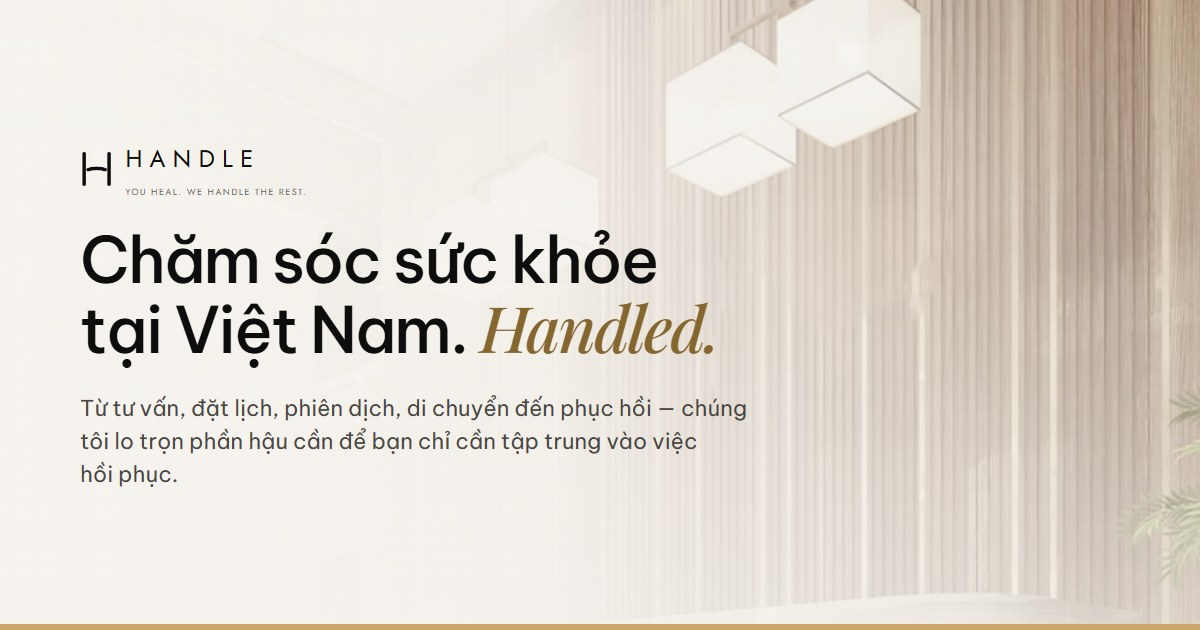
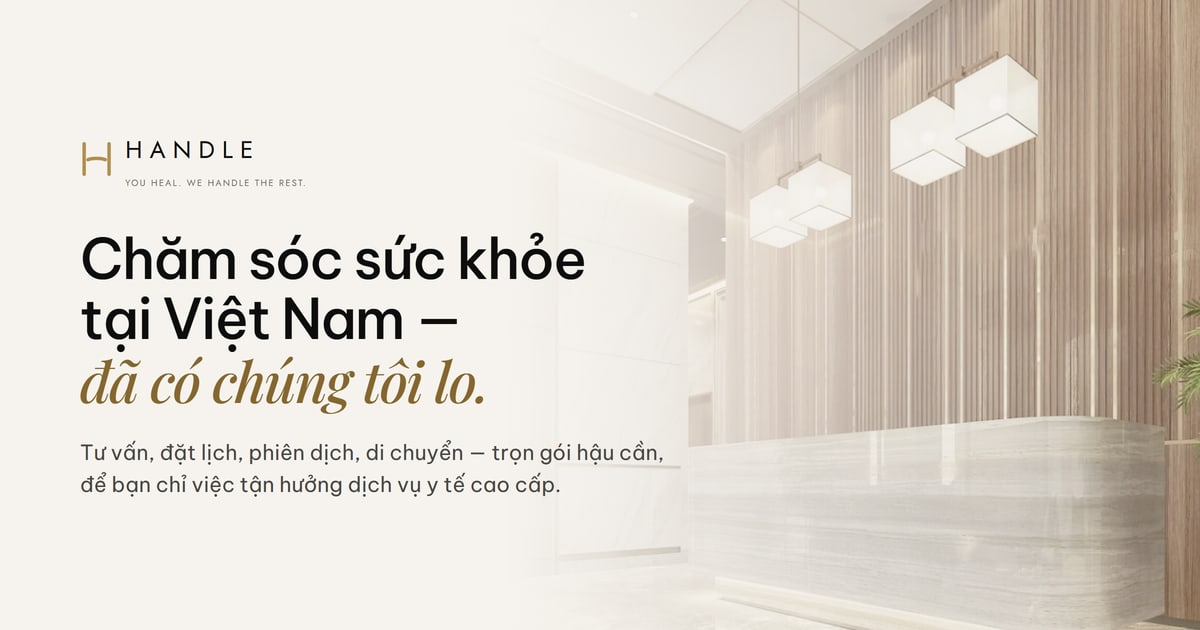
copy(hero): the new Vietnamese tagline, and the three places it reached
Chăm sóc sức khỏe tại Việt Nam — đã có chúng tôi lo.

    Tư vấn, đặt lịch, phiên dịch, di chuyển — trọn gói hậu cần, để bạn chỉ
    việc tận hưởng dịch vụ y tế cao cấp.

The em dash closes line two rather than opening the accent. A display serif set
in italic that begins on punctuation reads as a fragment; the dash at the line
end is what signals the turn into the gold phrase, and the accent keeps its own
line exactly as "Handled." did.

Changing a headline that had been one word in the accent field and a complete
clause in the lead field pulled on three things that quietly depended on the
old shape:

**The WebPage `name` in the graph** was `titleLead` alone. Harmless while the
accent was a separable word, and the moment the headline became one sentence
split across two fields it published a name ending in a dangling em dash. It is
the whole h1 now, accent included.

**`og:image:alt`** still described the old tagline.

**`public/og.jpg` still carried the old headline and the old lead**, which
matters more than the two above: it is the entire content of the link preview,
so every share would have shown a card contradicting the page it opened.
Regenerated by the documented method — a throwaway route rendering the card from
the running site, screenshotted at 1200×630 — so the wordmark, Be Vietnam Pro
and Playfair italic are the faces the site ships rather than a rasteriser's
substitutes for Vietnamese glyphs. The route is deleted again in this commit;
[…]

diff --git a/content/vi.ts b/content/vi.ts
@@ -33,9 +33,12 @@ export const vi: SiteContent = {
   },
 
   hero: {
-    titleLead: "Chăm sóc sức khỏe\ntại Việt Nam.",
-    titleAccent: "Handled.",
-    lead: "Từ tư vấn, đặt lịch, phiên dịch, di chuyển đến phục hồi — chúng tôi lo trọn phần hậu cần để bạn chỉ cần tập trung vào việc hồi phục.",
+    /* The em dash closes line two rather than opening the accent: a display
+       serif set in italic starting on punctuation reads as a fragment, and the
+       dash at the line end is what signals the turn into the gold phrase. */
+    titleLead: "Chăm sóc sức khỏe\ntại Việt Nam —",
+    titleAccent: "đã có chúng tôi lo.",
+    lead: "Tư vấn, đặt lịch, phiên dịch, di chuyển — trọn gói hậu cần, để bạn chỉ việc tận hưởng dịch vụ y tế cao cấp.",
     primaryCta: "Tư vấn miễn phí",
     secondaryCta: "Xem video giới thiệu",
     badges: [

diff --git a/lib/json-ld.ts b/lib/json-ld.ts
@@ -139,7 +139,11 @@ export function generateHomeSchema(locale: Locale, content: SiteContent) {
         "@type": "WebPage",
         "@id": `${pageUrl}#webpage`,
         url: pageUrl,
-        name: content.hero.titleLead.replace("\n", " "),
+        /* The whole h1, accent included. It used to be `titleLead` alone, which
+           was harmless while the accent was a separate word ("Handled.") and
+           became a dangling em dash the moment the headline turned into one
+           sentence broken across the two fields. */
+        name: `${content.hero.titleLead.replace("\n", " ")} ${content.hero.titleAccent}`,
         description: content.hero.lead,
         inLanguage: content.htmlLang,
         isPartOf: { "@id": `${baseUrl}/#website` },

diff --git a/lib/seo.ts b/lib/seo.ts
@@ -12,7 +12,7 @@ export const OG_IMAGE = {
   url: "/og.jpg",
   width: 1200,
   height: 630,
-  alt: "Handle — Chăm sóc sức khỏe tại Việt Nam. Handled.",
+  alt: "Handle — Chăm sóc sức khỏe tại Việt Nam, đã có chúng tôi lo.",
 };
 
 /**
